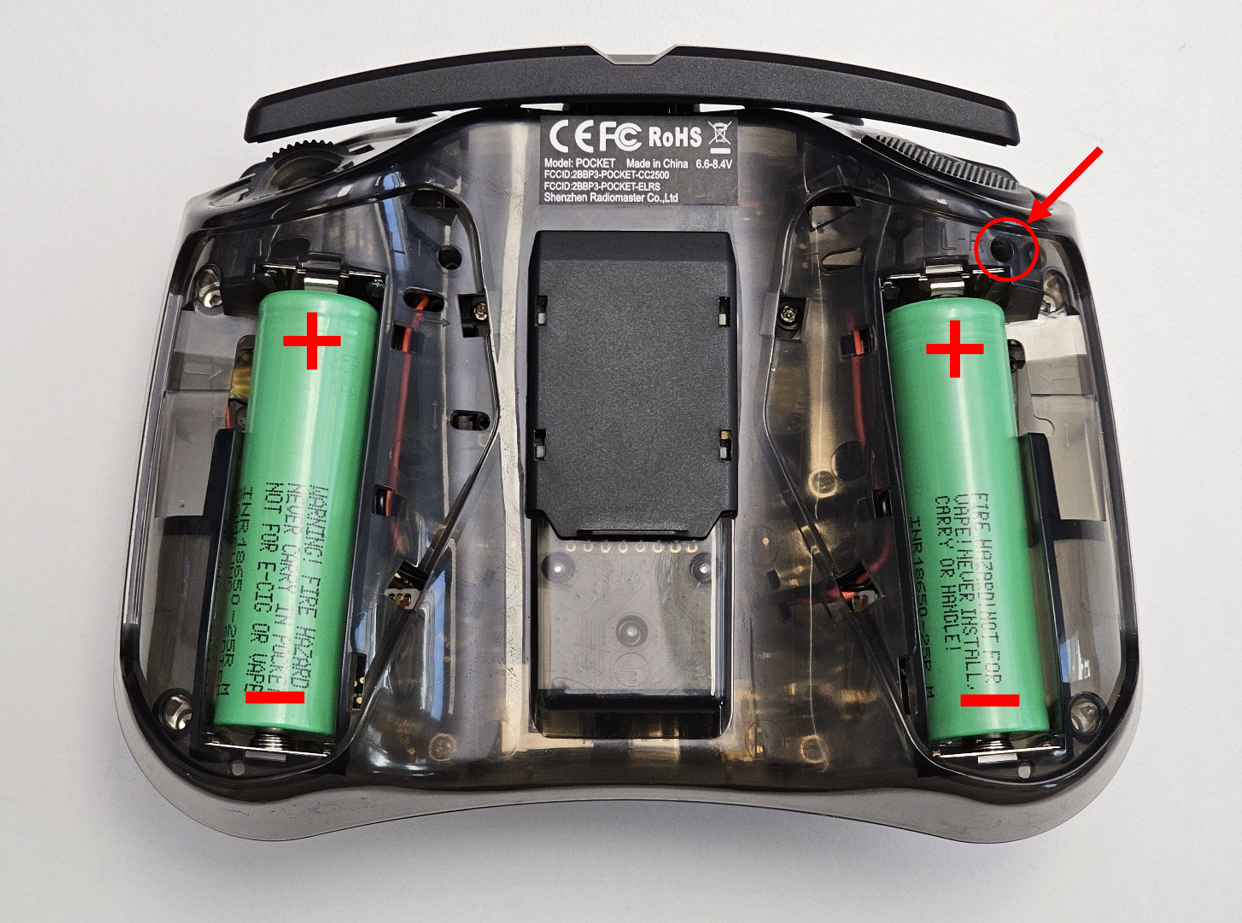
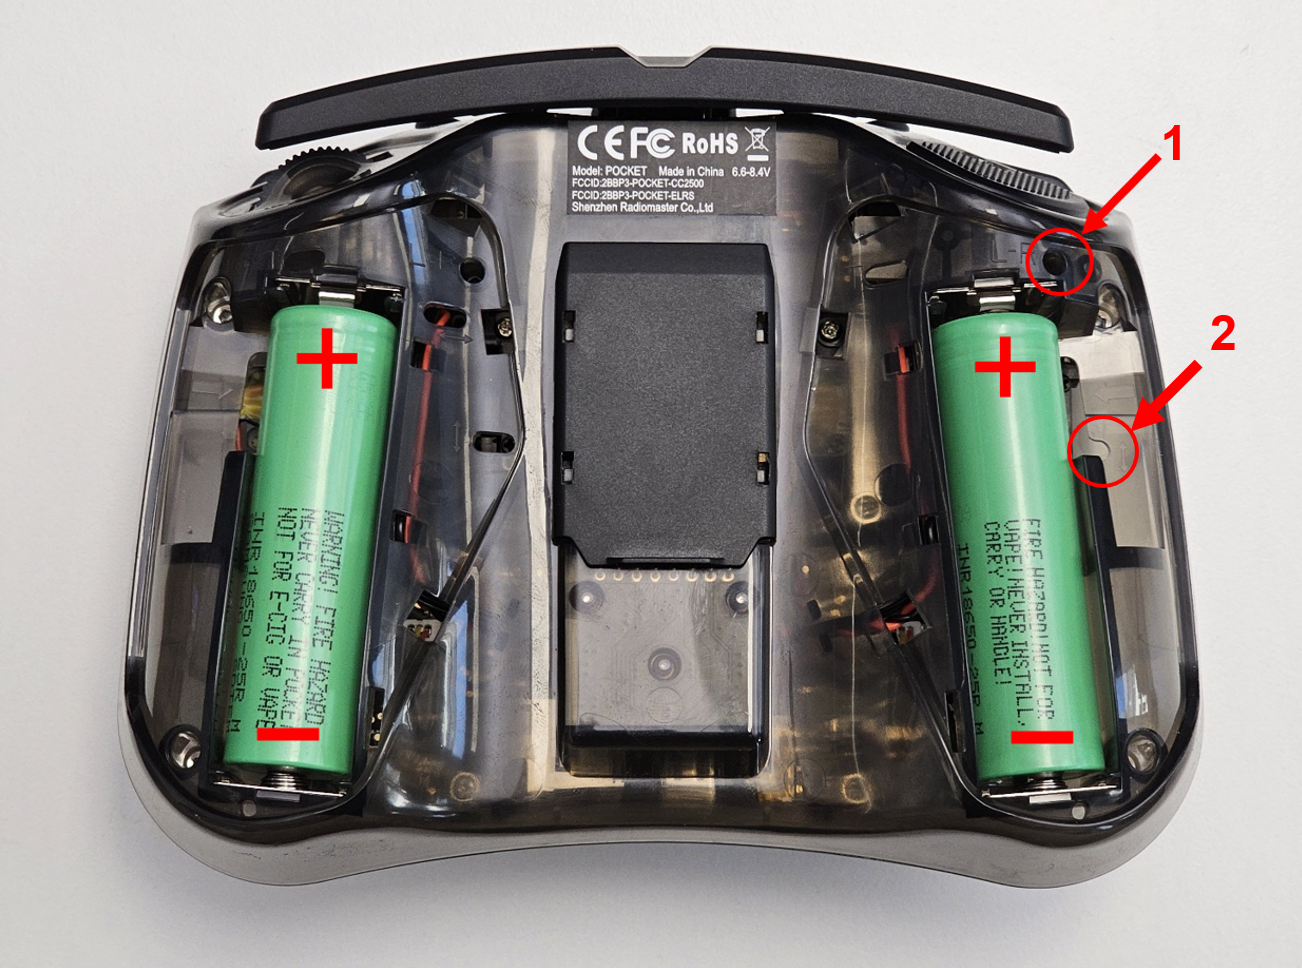
Updated manual to erase potential for layer 8 issues

diff --git a/docs/03_RemoteSetup.md b/docs/03_RemoteSetup.md
@@ -12,7 +12,8 @@ Es empfiehlt sich dennoch das Kapitel aufmerksam zu lesen. Nimmst du die Drohne 
 
 ## Einlegen der Batterien und Aktivieren der selbstständigen Zentrierung
 
-Nach dem Entfernen der gummierten Griffschalen kannst du mit einem Torx 7 oder 2mm Innensechskantschlüssel die selbstständige Zentrierung des Schubreglers aktivieren. Drehe hierfür die markierte Schraube entgegen dem Uhrzeigersinn bis sich der dazugehörige Gimbal federgestützt in der Mittelposition hält.
+Nach dem Entfernen der gummierten Griffschalen kannst du mit einem Torx 7 oder 2mm Innensechskantschlüssel die selbstständige Zentrierung des Schubreglers aktivieren. Drehe hierfür die mit `1` markierte Schraube entgegen dem Uhrzeigersinn, bis sich der dazugehörige Gimbal federgestützt in der Mittelposition hält.  
+Falls das Gimbal noch nicht selbst die Mittelposition hält, drehe die mit `2` markierte Schraube im Uhrzeigersinn, bis sich der dazugehörige Gimbal federgestützt in der Mittelposition hält.
 
 Nun kannst du die zwei 18650 Li-Ion Batterien einlegen. Achte dabei auf die **korrekte Polung**, wie sie in dem Bild markiert ist.
 
@@ -50,7 +51,7 @@ Schalte den PC und die Fernbedienung an.
 
 Als Nächstes nimmst du das USB-C Kabel und verbindest den PC und die Fernbedienung miteinander. Achte darauf, dass du das Kabel oben bei der Fernbedienung einsteckst.
 
-Beim Einstecken sollte ein Fenster mit drei verschiedenen Auswahlmöglichkeiten erscheinen. Wähle mit dem Drehrad rechts die Option „USB-Storage“ und drücke das Drehrad. Wenn du versehentlich etwas anderes ausgewählt hast, steck das Kabel einfach wieder ein und aus und wiederhole den Vorgang
+Beim Einstecken sollte ein Fenster mit drei verschiedenen Auswahlmöglichkeiten erscheinen. Wähle mit dem Drehrad rechts die Option „USB-Storage“ und drücke das Drehrad. Wenn du versehentlich etwas anderes ausgewählt hast, steck das Kabel einfach wieder ein und aus und wiederhole den Vorgang.
 
 ![Image](/rsc/01_img/03_RemoteSetup/RemoteUSB.png)
 
@@ -60,11 +61,12 @@ Wähle nun links unten das USB-Laufwerk der Fernbedienung aus.
 
 ![Image](/rsc/01_img/03_RemoteSetup/RemoteDrive.png)
 
-Lösche alle enthaltenen Dateien und Ordner. Im Anschluss fügst du die heruntergeladenen Ordner ein (STRG+V oder Rechtsklick -> Einfüge Symbol).
+**Lösche alle enthaltenen Dateien und Ordner.** Im Anschluss fügst du die heruntergeladenen Ordner ein (STRG+V oder Rechtsklick -> Einfüge Symbol).  
 
-![Image](/rsc/01_img/03_RemoteSetup/RemoteReplace.png)
+Warte nun, bis der Vorgang abgeschlossen wurde. Anschließend trennst du das USB-Kabel von der Fernsteuerung und startest diese neu. Durch den Neustart werden die geänderten Konfigurationen eingelesen.  
 
-Warte nun, bis der Vorgang abgeschlossen wurde. Anschließend trennst du das USB-Kabel von der Fernsteuerung und startest diese neu. Durch den Neustart werden die geänderten Konfigurationen eingelesen.
+Falls es zu einem Speicherfehler auf der Fernsteuerung kommt, bestätige durch das mehrmalige Drücken des Drehrads, dass eine Backup-Konfiguration geladen werden soll. Anschließend verbindest du die Fernsteuerung wieder mit dem PC und wählst USB-Storage aus.  
+Wähle das Laufwerk der Fernbedienung aus und navigiere zu dem Ordner `Models`. In diesem löschst du die Datei mit der Endung `.yaml` und fügst die Datei `model00.yaml` aus dem heruntergeladenen Ordner ein.
 
 Glückwunsch, du hast die benötigte Konfiguration auf die Fernbedienung übertragen. Im weiteren Verlauf wirst du nun einige Zusatzeinstellungen vornehmen.
 
@@ -85,8 +87,6 @@ Im Anschluss bewegst du die Sticks mehrmals in alle Richtungen bis zum Anschlag,
 
 Damit sich die Fernbedienung mit der Drohne verbinden kann, müssen wir das Übertragungsmodul konfigurieren.
 
-Solltest du an irgendeinem Punkt nicht weiterkommen liegt es möglicherweise an nicht installierten Treibern. In diesem Fall gehst du wie [hier](/docs/01_Materials.md#installation-zadig-usb-treiber) beschrieben vor und installierst die Treiber per *Zadig*.
-
 Zuerst starten wir die Fernbedienung mit einem langen Druck auf den Power Button bis das *EdgeTX*-Logo erscheint. Verbinde anschließend die Fernbedienung per USB-Kabel mit dem PC. Nimm dazu den oberen Anschluss an der Fernbedienung.
 
 Es sollte dann folgende Anzeige auf der Fernbedienung erscheinen. Wähle mit dem Drehrad durch Drehen *USB-Serial (VCP)* (1) aus und bestätige durch Drücken des Drehrads.
@@ -101,6 +101,9 @@ Das Fenster, das sich öffnet, sieht etwa so wie unten aus. Wähle die Werte so 
 Anschließend sollten die Werte unten im roten Kasten automatisch ausgewählt werden. Falls nicht, vervollständige sie bitte entsprechend. Die *Binding Phrase* (5) kannst du **frei wählen**. Du musst lediglich darauf achten, dass, falls mehrere Drohnen gleichzeitig gebaut werden, nicht mehrmals die gleiche Binding Phrase verwendet wird. Sprich dich also mit anderen Drohnenpiloten ab, sonst kann es zu Verbindungsfehlern kommen und niemand kann fliegen!
 
 Zuletzt musst du nur noch im Dropdown-Menü (6) *COM5* auswählen. Möglicherweise ist die Zahl hinter *COM* nicht 5, sondern eine andere Zahl. Das macht nichts. Im Dropdown-Menü sollte es nur eine Auswahlmöglichkeit geben, die nimmst du einfach. Gibt es mehr als eine Auswahlmöglichkeit, ist das ein Zeichen dafür, dass noch irgendein anderes Gerät am PC angesteckt ist, das gerade nicht benötigt wird. Entferne es und öffne das Dropdown-Menü neu, dann sollte nur noch eine Möglichkeit übrigbleiben.
+
+Solltest du an diesem Punkt nicht weiterkommen liegt es möglicherweise an nicht installierten Treibern. In diesem Fall gehst du wie [hier](/docs/01_Materials.md#installation-zadig-usb-treiber) beschrieben vor und installierst die Treiber per *Zadig*.  
+Falls dies nicht funktioniert musst du den STM32-Treiber installieren oder eine bestehende Installation reparieren. Folge dazu [dieser](/docs/01_Materials.md#installation-stm32-virtual-com-port-treiber) Anleitung.
 
 Anschließend kannst du die Konfiguration auf die Fernbedienung übertragen, indem du *Auf Gerät installieren* (7) drückst.
 
